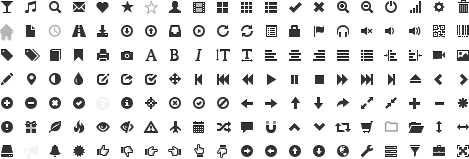
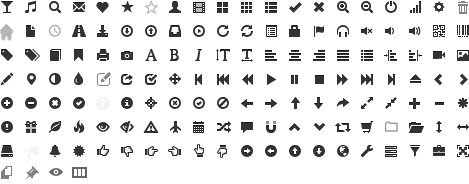
BAP-66: Pin Bar and Application Menu

diff --git a/Resources/public/css/less/oro.less b/Resources/public/css/less/oro.less
@@ -910,3 +910,47 @@ footer{
   background-color: #7a95b5;
   color: #fff;
 }
+.filter-box{
+  background:#efefef url("../../img/bg-gray-box.png") repeat-x;
+  border: solid #ccc;
+  border-width: 1px 0;
+  padding-top: 15px;
+  padding-bottom: 5px;
+}
+.btn-group + .btn-group{
+  margin-left: 0;
+}
+.btn-group{
+  margin-right: 5px;
+}
+.btn .caret{
+  margin-left: 5px;
+}
+.btn-link{
+  font-weight: bold;
+  font-size: 12px;
+}
+.nav-tabs > li{
+  margin-bottom: 0;
+  height: 26px;
+}
+.nav-tabs > li.active {
+
+}
+.filter-box .btn-group{
+  margin-bottom: 7px;
+}
+.icon-copy{
+  background-position: 0 -166px;
+}
+.icon-pin{
+  background-position: -24px -166px;
+}
+.icon-eye2-open{
+  background-position: -48px -166px;
+  width: 15px;
+}
+.icon-sort{
+  background-position: -72px -166px;
+  width: 15px;
+}
